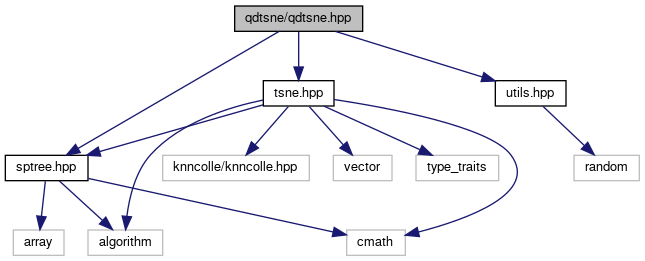
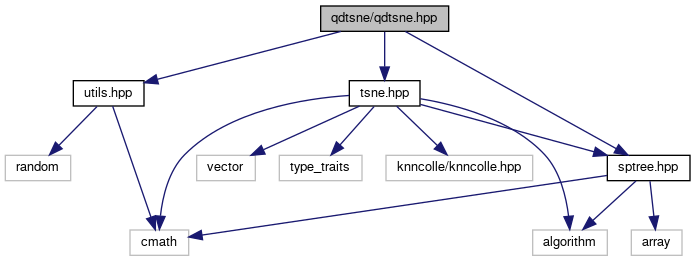
Deploying to gh-pages from @ LTLA/qdtsne@ef9c6a45bd3d524f613a3da1e342df4126abde21 🚀

diff --git a/docs/utils_8hpp_source.html b/docs/utils_8hpp_source.html
@@ -75,28 +75,60 @@ $(function() {
 <div class="line"><a name="l00002"></a><span class="lineno">    2</span>&#160;<span class="preprocessor">#define QDTSNE_UTILS_HPP</span></div>
 <div class="line"><a name="l00003"></a><span class="lineno">    3</span>&#160; </div>
 <div class="line"><a name="l00010"></a><span class="lineno">   10</span>&#160;<span class="preprocessor">#include &lt;random&gt;</span></div>
-<div class="line"><a name="l00011"></a><span class="lineno">   11</span>&#160; </div>
-<div class="line"><a name="l00012"></a><span class="lineno">   12</span>&#160;<span class="keyword">namespace </span>qdtsne {</div>
-<div class="line"><a name="l00013"></a><span class="lineno">   13</span>&#160; </div>
-<div class="line"><a name="l00025"></a><span class="lineno">   25</span>&#160;<span class="keyword">template</span>&lt;<span class="keywordtype">int</span> ndim = 2&gt;</div>
-<div class="line"><a name="l00026"></a><span class="lineno">   26</span>&#160;<span class="keywordtype">void</span> initialize_random(<span class="keywordtype">double</span>* Y, <span class="keywordtype">size_t</span> N, <span class="keywordtype">int</span> seed = 42) {</div>
-<div class="line"><a name="l00027"></a><span class="lineno">   27</span>&#160;    std::mt19937_64 rng(seed);</div>
-<div class="line"><a name="l00028"></a><span class="lineno">   28</span>&#160;    std::normal_distribution&lt;&gt; dist(0, 1);</div>
-<div class="line"><a name="l00029"></a><span class="lineno">   29</span>&#160;    <span class="keywordflow">for</span> (<span class="keywordtype">size_t</span> i = 0; i &lt; N * ndim; ++i) {</div>
-<div class="line"><a name="l00030"></a><span class="lineno">   30</span>&#160;        Y[i] = dist(rng);</div>
-<div class="line"><a name="l00031"></a><span class="lineno">   31</span>&#160;    }</div>
-<div class="line"><a name="l00032"></a><span class="lineno">   32</span>&#160;}</div>
-<div class="line"><a name="l00033"></a><span class="lineno">   33</span>&#160; </div>
-<div class="line"><a name="l00044"></a><span class="lineno">   44</span>&#160;<span class="keyword">template</span>&lt;<span class="keywordtype">int</span> ndim = 2&gt;</div>
-<div class="line"><a name="l00045"></a><span class="lineno">   45</span>&#160;std::vector&lt;double&gt; initialize_random(<span class="keywordtype">size_t</span> N, <span class="keywordtype">int</span> seed = 42) {</div>
-<div class="line"><a name="l00046"></a><span class="lineno">   46</span>&#160;    std::vector&lt;double&gt; Y(ndim * N);</div>
-<div class="line"><a name="l00047"></a><span class="lineno">   47</span>&#160;    initialize_random&lt;ndim&gt;(Y.data(), N, seed);</div>
-<div class="line"><a name="l00048"></a><span class="lineno">   48</span>&#160;    <span class="keywordflow">return</span> Y;</div>
-<div class="line"><a name="l00049"></a><span class="lineno">   49</span>&#160;}</div>
-<div class="line"><a name="l00050"></a><span class="lineno">   50</span>&#160; </div>
-<div class="line"><a name="l00051"></a><span class="lineno">   51</span>&#160;}</div>
-<div class="line"><a name="l00052"></a><span class="lineno">   52</span>&#160; </div>
-<div class="line"><a name="l00053"></a><span class="lineno">   53</span>&#160;<span class="preprocessor">#endif</span></div>
+<div class="line"><a name="l00011"></a><span class="lineno">   11</span>&#160;<span class="preprocessor">#include &lt;cmath&gt;</span></div>
+<div class="line"><a name="l00012"></a><span class="lineno">   12</span>&#160; </div>
+<div class="line"><a name="l00013"></a><span class="lineno">   13</span>&#160;<span class="keyword">namespace </span>qdtsne {</div>
+<div class="line"><a name="l00014"></a><span class="lineno">   14</span>&#160; </div>
+<div class="line"><a name="l00015"></a><span class="lineno">   15</span>&#160;<span class="keyword">template</span>&lt;<span class="keyword">class</span> Engine&gt;</div>
+<div class="line"><a name="l00016"></a><span class="lineno">   16</span>&#160;<span class="keywordtype">double</span> uniform01 (Engine&amp; eng) {</div>
+<div class="line"><a name="l00017"></a><span class="lineno">   17</span>&#160;    <span class="comment">// Stolen from Boost.</span></div>
+<div class="line"><a name="l00018"></a><span class="lineno">   18</span>&#160;    <span class="keyword">const</span> <span class="keywordtype">double</span> factor = 1.0 / <span class="keyword">static_cast&lt;</span><span class="keywordtype">double</span><span class="keyword">&gt;</span>((eng.max)()-(eng.min)());</div>
+<div class="line"><a name="l00019"></a><span class="lineno">   19</span>&#160;    <span class="keywordtype">double</span> result;</div>
+<div class="line"><a name="l00020"></a><span class="lineno">   20</span>&#160;    <span class="keywordflow">do</span> {</div>
+<div class="line"><a name="l00021"></a><span class="lineno">   21</span>&#160;        result = <span class="keyword">static_cast&lt;</span><span class="keywordtype">double</span><span class="keyword">&gt;</span>(eng() - (eng.min)()) * factor;</div>
+<div class="line"><a name="l00022"></a><span class="lineno">   22</span>&#160;    } <span class="keywordflow">while</span> (result == 1.0);</div>
+<div class="line"><a name="l00023"></a><span class="lineno">   23</span>&#160;    <span class="keywordflow">return</span> result;</div>
+<div class="line"><a name="l00024"></a><span class="lineno">   24</span>&#160;}</div>
+<div class="line"><a name="l00025"></a><span class="lineno">   25</span>&#160; </div>
+<div class="line"><a name="l00039"></a><span class="lineno">   39</span>&#160;<span class="keyword">template</span>&lt;<span class="keywordtype">int</span> ndim = 2&gt;</div>
+<div class="line"><a name="l00040"></a><span class="lineno">   40</span>&#160;<span class="keywordtype">void</span> initialize_random(<span class="keywordtype">double</span>* Y, <span class="keywordtype">size_t</span> N, <span class="keywordtype">int</span> seed = 42) {</div>
+<div class="line"><a name="l00041"></a><span class="lineno">   41</span>&#160;    std::mt19937_64 rng(seed);</div>
+<div class="line"><a name="l00042"></a><span class="lineno">   42</span>&#160;    constexpr <span class="keywordtype">double</span> pi = 3.14159265358979323846;</div>
+<div class="line"><a name="l00043"></a><span class="lineno">   43</span>&#160; </div>
+<div class="line"><a name="l00044"></a><span class="lineno">   44</span>&#160;    <span class="keywordtype">size_t</span> total = N * ndim;</div>
+<div class="line"><a name="l00045"></a><span class="lineno">   45</span>&#160;    <span class="keywordtype">bool</span> odd = total % 2;</div>
+<div class="line"><a name="l00046"></a><span class="lineno">   46</span>&#160;    <span class="keywordflow">if</span> (odd) {</div>
+<div class="line"><a name="l00047"></a><span class="lineno">   47</span>&#160;        --total;</div>
+<div class="line"><a name="l00048"></a><span class="lineno">   48</span>&#160;    }</div>
+<div class="line"><a name="l00049"></a><span class="lineno">   49</span>&#160; </div>
+<div class="line"><a name="l00050"></a><span class="lineno">   50</span>&#160;    <span class="comment">// Box-Muller gives us two random values at a time.</span></div>
+<div class="line"><a name="l00051"></a><span class="lineno">   51</span>&#160;    <span class="keywordflow">for</span> (<span class="keywordtype">size_t</span> i = 0; i &lt; total; i += 2) {</div>
+<div class="line"><a name="l00052"></a><span class="lineno">   52</span>&#160;        <span class="keywordtype">double</span> constant = std::sqrt(-2 * std::log(uniform01(rng)));</div>
+<div class="line"><a name="l00053"></a><span class="lineno">   53</span>&#160;        <span class="keywordtype">double</span> angle = 2 * pi * uniform01(rng);</div>
+<div class="line"><a name="l00054"></a><span class="lineno">   54</span>&#160;        Y[i] = constant * std::sin(angle);</div>
+<div class="line"><a name="l00055"></a><span class="lineno">   55</span>&#160;        Y[i + 1] = constant * std::cos(angle);</div>
+<div class="line"><a name="l00056"></a><span class="lineno">   56</span>&#160;    }</div>
+<div class="line"><a name="l00057"></a><span class="lineno">   57</span>&#160; </div>
+<div class="line"><a name="l00058"></a><span class="lineno">   58</span>&#160;    <span class="keywordflow">if</span> (odd) {</div>
+<div class="line"><a name="l00059"></a><span class="lineno">   59</span>&#160;        <span class="comment">// Adding the poor extra for odd total lengths.</span></div>
+<div class="line"><a name="l00060"></a><span class="lineno">   60</span>&#160;        <span class="keywordtype">double</span> constant = std::sqrt(-2 * std::log(uniform01(rng)));</div>
+<div class="line"><a name="l00061"></a><span class="lineno">   61</span>&#160;        <span class="keywordtype">double</span> angle = 2 * pi * uniform01(rng);</div>
+<div class="line"><a name="l00062"></a><span class="lineno">   62</span>&#160;        Y[total] = constant * std::sin(angle);</div>
+<div class="line"><a name="l00063"></a><span class="lineno">   63</span>&#160;    }</div>
+<div class="line"><a name="l00064"></a><span class="lineno">   64</span>&#160; </div>
+<div class="line"><a name="l00065"></a><span class="lineno">   65</span>&#160;    <span class="keywordflow">return</span>;</div>
+<div class="line"><a name="l00066"></a><span class="lineno">   66</span>&#160;}</div>
+<div class="line"><a name="l00067"></a><span class="lineno">   67</span>&#160; </div>
+<div class="line"><a name="l00078"></a><span class="lineno">   78</span>&#160;<span class="keyword">template</span>&lt;<span class="keywordtype">int</span> ndim = 2&gt;</div>
+<div class="line"><a name="l00079"></a><span class="lineno">   79</span>&#160;std::vector&lt;double&gt; initialize_random(<span class="keywordtype">size_t</span> N, <span class="keywordtype">int</span> seed = 42) {</div>
+<div class="line"><a name="l00080"></a><span class="lineno">   80</span>&#160;    std::vector&lt;double&gt; Y(ndim * N);</div>
+<div class="line"><a name="l00081"></a><span class="lineno">   81</span>&#160;    initialize_random&lt;ndim&gt;(Y.data(), N, seed);</div>
+<div class="line"><a name="l00082"></a><span class="lineno">   82</span>&#160;    <span class="keywordflow">return</span> Y;</div>
+<div class="line"><a name="l00083"></a><span class="lineno">   83</span>&#160;}</div>
+<div class="line"><a name="l00084"></a><span class="lineno">   84</span>&#160; </div>
+<div class="line"><a name="l00085"></a><span class="lineno">   85</span>&#160;}</div>
+<div class="line"><a name="l00086"></a><span class="lineno">   86</span>&#160; </div>
+<div class="line"><a name="l00087"></a><span class="lineno">   87</span>&#160;<span class="preprocessor">#endif</span></div>
 </div><!-- fragment --></div><!-- contents -->
 <!-- start footer part -->
 <hr class="footer"/><address class="footer"><small>

diff --git a/docs/qdtsne_8hpp.html b/docs/qdtsne_8hpp.html
@@ -82,17 +82,17 @@ Include dependency graph for qdtsne.hpp:</div>
 <div class="dyncontent">
 <div class="center"><img src="qdtsne_8hpp__incl.png" border="0" usemap="#aqdtsne_2qdtsne_8hpp" alt=""/></div>
 <map name="aqdtsne_2qdtsne_8hpp" id="aqdtsne_2qdtsne_8hpp">
-<area shape="rect" title="Umbrella header for all qdtsne files." alt="" coords="235,5,363,32"/>
-<area shape="rect" href="tsne_8hpp.html" title="Implements the t&#45;SNE algorithm." alt="" coords="263,80,334,107"/>
-<area shape="rect" href="sptree_8hpp_source.html" title=" " alt="" coords="5,155,88,181"/>
-<area shape="rect" href="utils_8hpp_source.html" title=" " alt="" coords="495,80,566,107"/>
-<area shape="rect" title=" " alt="" coords="347,229,405,256"/>
-<area shape="rect" title=" " alt="" coords="88,229,163,256"/>
-<area shape="rect" title=" " alt="" coords="163,155,309,181"/>
-<area shape="rect" title=" " alt="" coords="333,155,392,181"/>
-<area shape="rect" title=" " alt="" coords="416,155,499,181"/>
-<area shape="rect" title=" " alt="" coords="13,229,64,256"/>
-<area shape="rect" title=" " alt="" coords="574,155,639,181"/>
+<area shape="rect" title="Umbrella header for all qdtsne files." alt="" coords="321,5,449,32"/>
+<area shape="rect" href="tsne_8hpp.html" title="Implements the t&#45;SNE algorithm." alt="" coords="349,80,420,107"/>
+<area shape="rect" href="sptree_8hpp_source.html" title=" " alt="" coords="607,155,690,181"/>
+<area shape="rect" href="utils_8hpp_source.html" title=" " alt="" coords="73,80,144,107"/>
+<area shape="rect" title=" " alt="" coords="130,229,189,256"/>
+<area shape="rect" title=" " alt="" coords="533,229,607,256"/>
+<area shape="rect" title=" " alt="" coords="386,155,533,181"/>
+<area shape="rect" title=" " alt="" coords="197,155,255,181"/>
+<area shape="rect" title=" " alt="" coords="279,155,362,181"/>
+<area shape="rect" title=" " alt="" coords="631,229,682,256"/>
+<area shape="rect" title=" " alt="" coords="5,155,71,181"/>
 </map>
 </div>
 </div>
